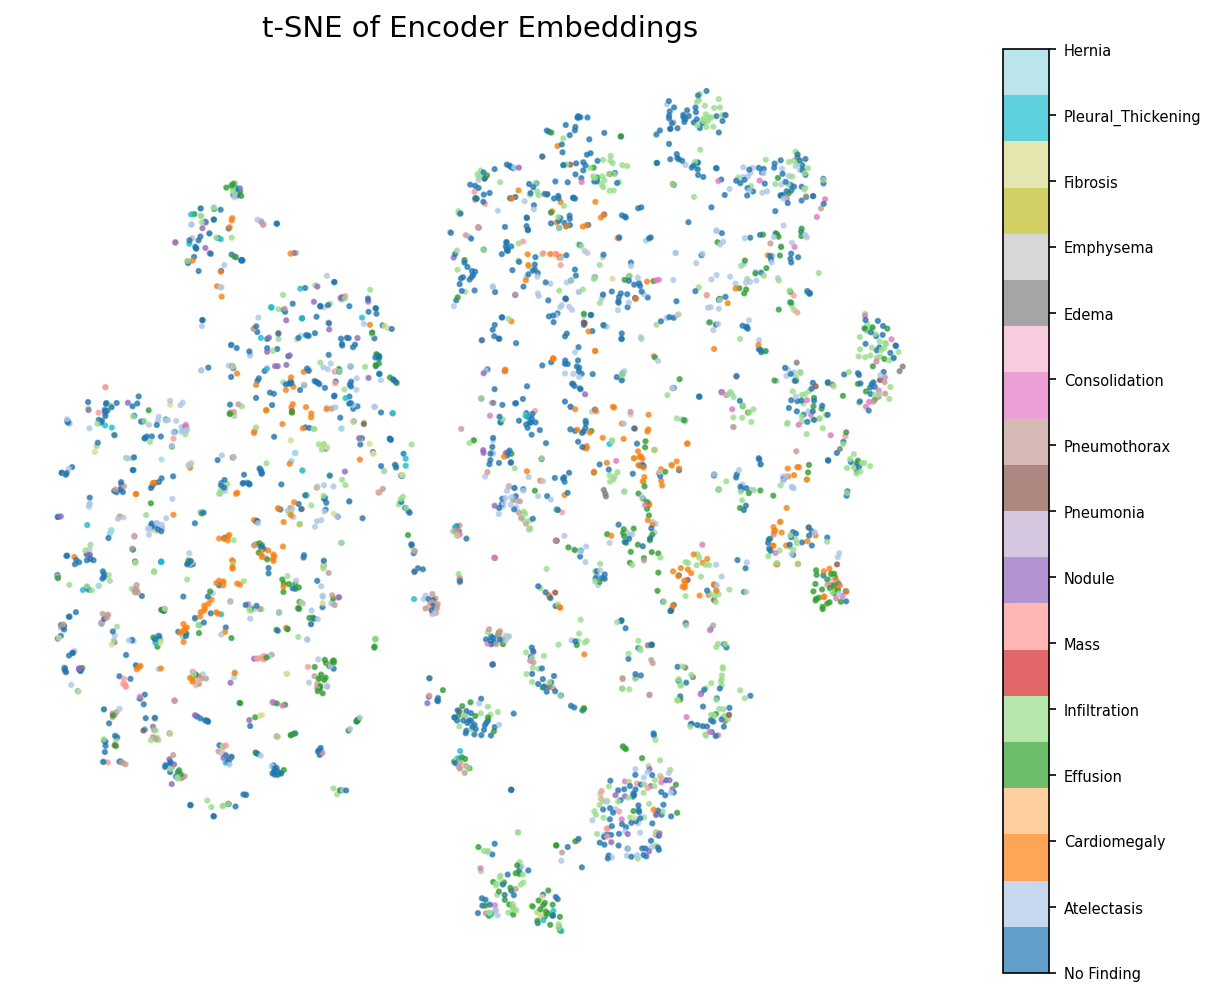
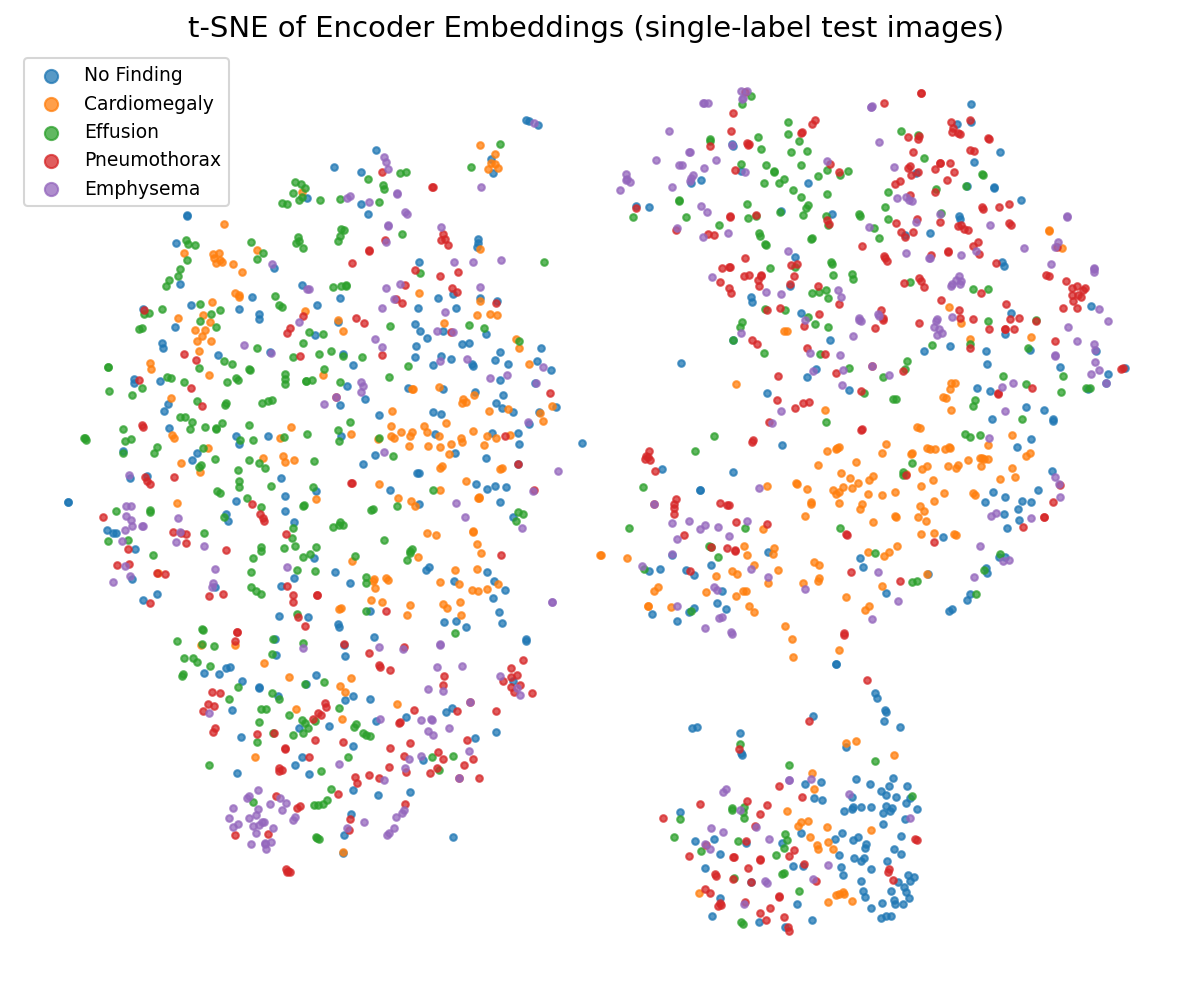
feat: enhance t-SNE visualization with class-balanced single-label images for improved interpretability

diff --git a/src/evaluation/visualize.py b/src/evaluation/visualize.py
@@ -23,53 +23,92 @@ from src.data.dataset import ALL_CLASSES
 # 1. t-SNE embeddings
 # ---------------------------------------------------------------------------
 
+# Curated set of clinically distinct classes for a legible t-SNE. The full
+# 15-way multi-label space is too entangled to colour meaningfully, so we plot
+# a balanced subset of single-label images from these classes.
+_TSNE_DEFAULT_CLASSES = [
+    "No Finding",
+    "Cardiomegaly",
+    "Effusion",
+    "Pneumothorax",
+    "Emphysema",
+]
+
+
 def plot_tsne(
     encoder,
     loader,
     device,
     save_path: str = "logs/tsne.png",
-    n_samples: int = 3000,
-    perplexity: int = 30,
+    classes: list = None,
+    max_per_class: int = 400,
+    perplexity: int = 35,
 ):
     """
-    Extract encoder features and visualise with t-SNE.
-    Colour each point by its primary (first-listed) pathology label.
+    Visualise encoder features with t-SNE using a balanced set of *single-label*
+    test images from a curated list of clinically distinct classes.
+
+    Why this design:
+      - Multi-label images have no single "true" colour; using argmax over all 15
+        classes (dominated by "No Finding") produces an uninterpretable blob.
+      - Restricting to single-label images and balancing the number of samples
+        per class gives an honest, legible view of how the encoder groups
+        pathologies. Only classes with genuine structure will separate.
     """
     from sklearn.manifold import TSNE
 
-    encoder.eval()
-    features, primary_labels = [], []
+    if classes is None:
+        classes = _TSNE_DEFAULT_CLASSES
+    class_idx = [ALL_CLASSES.index(c) for c in classes]
+    counts = {ci: 0 for ci in class_idx}
 
-    collected = 0
+    encoder.eval()
+    features, labels_out = [], []
     with torch.no_grad():
         for images, labels in loader:
-            if collected >= n_samples:
+            label_np = labels.numpy() if hasattr(labels, "numpy") else np.asarray(labels)
+            single = label_np.sum(axis=1) == 1  # keep only single-label images
+            if not single.any():
+                continue
+            primary = label_np.argmax(axis=1)
+            keep = []
+            for b in np.where(single)[0]:
+                ci = int(primary[b])
+                if ci in counts and counts[ci] < max_per_class:
+                    keep.append(b)
+                    counts[ci] += 1
+            if keep:
+                h = encoder(images[keep].to(device))
+                features.append(h.cpu().numpy())
+                labels_out.extend(int(primary[b]) for b in keep)
+            if all(counts[ci] >= max_per_class for ci in class_idx):
                 break
-            images = images.to(device)
-            h = encoder(images)
-            features.append(h.cpu().numpy())
-            # Use argmax as a proxy "primary" label for colouring
-            primary_labels.append(labels.numpy().argmax(axis=1))
-            collected += images.size(0)
 
-    features = np.concatenate(features, axis=0)[:n_samples]
-    primary_labels = np.concatenate(primary_labels, axis=0)[:n_samples]
+    if not features:
+        print("t-SNE skipped: no single-label samples found for the selected classes.")
+        return
 
-    print(f"Running t-SNE on {len(features)} samples …")
+    features = np.concatenate(features, axis=0)
+    labels_out = np.asarray(labels_out)
+
+    print(f"Running t-SNE on {len(features)} single-label samples …")
     emb = TSNE(
         n_components=2,
         perplexity=perplexity,
         random_state=42,
         max_iter=1000,
+        init="pca",
     ).fit_transform(features)
 
     fig, ax = plt.subplots(figsize=(10, 8))
-    scatter = ax.scatter(emb[:, 0], emb[:, 1], c=primary_labels, cmap="tab20", s=4, alpha=0.7)
-    cbar = fig.colorbar(scatter, ax=ax, ticks=range(len(ALL_CLASSES)))
-    cbar.ax.set_yticklabels(ALL_CLASSES, fontsize=7)
-    ax.set_title("t-SNE of Encoder Embeddings", fontsize=14)
-    ax.set_xlabel("t-SNE 1")
-    ax.set_ylabel("t-SNE 2")
+    cmap = plt.get_cmap("tab10")
+    for j, ci in enumerate(class_idx):
+        m = labels_out == ci
+        if not m.any():
+            continue
+        ax.scatter(emb[m, 0], emb[m, 1], s=10, alpha=0.75, color=cmap(j), label=ALL_CLASSES[ci])
+    ax.set_title("t-SNE of Encoder Embeddings (single-label test images)", fontsize=14)
+    ax.legend(markerscale=2, fontsize=9, loc="best")
     ax.axis("off")
 
     os.makedirs(os.path.dirname(save_path), exist_ok=True)

diff --git a/evaluate.py b/evaluate.py
@@ -170,12 +170,20 @@ def main():
     plot_loss_curves(log_dir=args.output_dir, save_path=os.path.join(args.output_dir, "loss_curves.png"))
 
     if not args.no_tsne:
+        # Shuffled loader so the class-balanced t-SNE sample is drawn from across
+        # the whole test set, not just the first images.
+        tsne_loader = DataLoader(
+            test_ds,
+            batch_size=config["training"]["batch_size"] * 2,
+            shuffle=True,
+            num_workers=data_cfg["num_workers"],
+            pin_memory=data_cfg["pin_memory"] and device.type != "mps",
+        )
         plot_tsne(
             encoder=model.encoder,
-            loader=test_loader,
+            loader=tsne_loader,
             device=device,
             save_path=os.path.join(args.output_dir, "tsne.png"),
-            n_samples=3000,
         )
 
     if not args.no_gradcam:

diff --git a/README.md b/README.md
@@ -445,7 +445,7 @@ Per-class ROC curves for the top prevalent classes, demonstrating the model's di
 ![ROC Curves](assets/roc_curves.png)
 
 ### 2. Encoder Embeddings (t-SNE)
-t-SNE visualization of the encoder features, colored by the primary pathology. This shows how well the model groups similar images together.
+t-SNE of the encoder features for a **class-balanced set of single-label test images** from five clinically distinct classes (No Finding, Cardiomegaly, Effusion, Pneumothorax, Emphysema). Single-label images are used because multi-label points have no single "true" colour; balancing prevents the dominant "No Finding" class from swamping the plot. Classes with genuine structure (e.g. Cardiomegaly) form visible groupings, while overlap reflects the moderate separability of the learned representation.
 ![t-SNE](assets/tsne.png)
 
 ### 3. Grad-CAM Interpretability